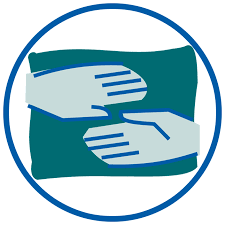
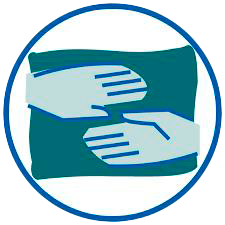
Login e Cadastro linkadas com as rotas das páginas 'Home', 'Sobre Nos' e 'Notícias e Atualizações'. E as bordas das imagens das intituições presenciais corrigidas.

diff --git a/public/css/style.css b/public/css/style.css
@@ -383,7 +383,7 @@ body {
     margin-right: 280px;
 }
 
-.btnLogar {
+.btnLogarCadastrar {
     background-color: rgb(73, 192, 220, 0.8);
     width: 90px;
     border: none;

diff --git a/resources/views/cadastro.blade.php b/resources/views/cadastro.blade.php
@@ -40,7 +40,7 @@
       rel="stylesheet"
       href="https://cdnjs.cloudflare.com/ajax/libs/aos/2.3.4/aos.css"
     />
-    <link rel="stylesheet" href="css/style.css" />
+    <link rel="stylesheet" href="{{ asset('css/style.css') }}" />
   </head>
   <body>
     <header id="cabecalho">
@@ -60,9 +60,9 @@
           <div id="menu" class="col-md-5">
             <nav>
               <ul>
-                <li><a href="../index.php">Home</a></li>
-                <li><a href="sobre_nos.php">Sobre Nós</a></li>
-                <li><a href="nt.php">Notícias e Atualizações</a></li>
+                <li><a href="{{ route('home') }}">Home</a></li>
+                <li><a href="{{ route('sobre-nos') }}">Sobre Nós</a></li>
+                <li><a href="{{ route('nt') }}">Notícias e Atualizações</a></li>
               </ul>
             </nav>
           </div>
@@ -78,7 +78,7 @@
               <form class="row g-3 needs-validation" novalidate>
                 <div class="col-md-4">
                   <label for="validationCustom01" class="form-label"
-                    >Primeiro Nome</label
+                    >Nome</label
                   >
                   <input
                     type="text"
@@ -133,18 +133,18 @@
                   />
                 </div>
                 <div>
-                  <label for="inputPassword5" class="form-label"
-                    >Senha</label
+                  <label for="inputPassword6" class="form-label"
+                    >Confirmar Senha</label
                   >
                   <input
                     type="password"
-                    id="inputPassword5"
+                    id="inputPassword6"
                     class="form-control"
                     aria-describedby="passwordHelpBlock"
-                    placeholder="Sua senha deve conter no mínimo 8 caracteres"
+                    placeholder="Confirme sua senha"
                   />
                 </div>
-                <div class="col-12">
+                <div class="col-7">
                   <div class="form-check">
                     <input
                       class="form-check-input"
@@ -161,8 +161,8 @@
                     </div>
                   </div>
                 </div>
-                <div class="col-12">
-                  <button class="btn btn-primary" type="submit">
+                <div class="col-5">
+                  <button class="btn btn-primary btnLogarCadastrar" type="submit">
                     Cadastrar
                   </button>
                 </div>
@@ -178,6 +178,6 @@
       crossorigin="anonymous"
     ></script>
     <script src="https://cdnjs.cloudflare.com/ajax/libs/aos/2.3.4/aos.js"></script>
-    <script src="../js/main.js"></script>
+    <script src="{{ asset('js/main.js') }}"></script>
   </body>
 </html>

diff --git a/resources/views/index.blade.php b/resources/views/index.blade.php
@@ -157,7 +157,7 @@
                                     <button type="button" class="btn btn_text">
                                         <a href="https://www.gov.br/saude/pt-br/assuntos/saude-de-a-a-z/u/upa-24h" target="_blank">
                                             <div class="boxImg">
-                                                <img src="img/upa.jpg" alt="UPA" class="img-fluid" />
+                                                <img src="img/upa.png" alt="UPA" class="img-fluid" />
                                             </div>
                                             <h5>UPA</h5>
                                         </a>
@@ -165,7 +165,7 @@
                                     <button type="button" class="btn btn_text">
                                         <a href="https://amorexigente.org/grupos-presenciais/" target="_blank">
                                             <div class="boxImg">
-                                                <img src="img/ae.png" alt="Grupo Mariliense de Amor Exigente - AMAE" class="img-fluid" />
+                                                <img src="img/ae.png" alt="Assossiação Mariliense de Amor Exigente - AMAE" class="img-fluid" />
                                             </div>
                                             <h5>AMAE</h5>
                                         </a>

diff --git a/resources/views/login.blade.php b/resources/views/login.blade.php
@@ -40,7 +40,7 @@
       rel="stylesheet"
       href="https://cdnjs.cloudflare.com/ajax/libs/aos/2.3.4/aos.css"
     />
-    <link rel="stylesheet" href="css/style.css" />
+    <link rel="stylesheet" href="{{ asset('css/style.css') }}" />
   </head>
   <body>
     <header id="cabecalho">
@@ -60,9 +60,9 @@
           <div id="menu" class="col-md-5">
             <nav>
               <ul>
-                <li><a href="../index.php">Home</a></li>
-                <li><a href="sobre_nos.php">Sobre Nós</a></li>
-                <li><a href="nt.php">Notícias e Atualizações</a></li>
+                <li><a href="{{ route('home') }}">Home</a></li>
+                <li><a href="{{ route('sobre-nos') }}">Sobre Nós</a></li>
+                <li><a href="{{ route('nt') }}">Notícias e Atualizações</a></li>
               </ul>
             </nav>
           </div>
@@ -136,6 +136,6 @@
       crossorigin="anonymous"
     ></script>
     <script src="https://cdnjs.cloudflare.com/ajax/libs/aos/2.3.4/aos.js"></script>
-    <script src="../js/main.js"></script>
+    <script src="{{ asset('js/main.js') }}"></script>
   </body>
 </html>
